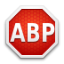
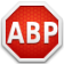
Enhanced the optics of the AdBlock dialog.

diff --git a/Helpviewer/AdBlock/AdBlockDialog.py b/Helpviewer/AdBlock/AdBlockDialog.py
@@ -34,6 +34,7 @@ class AdBlockDialog(QDialog, Ui_AdBlockDialog):
         self.setupUi(self)
         
         self.clearButton.setIcon(UI.PixmapCache.getIcon("clearLeft.png"))
+        self.iconLabel.setPixmap(UI.PixmapCache.getPixmap("adBlockPlus48.png"))
         
         self.__adBlockModel = AdBlockModel(self)
         self.__proxyModel = E5TreeSortFilterProxyModel(self)
